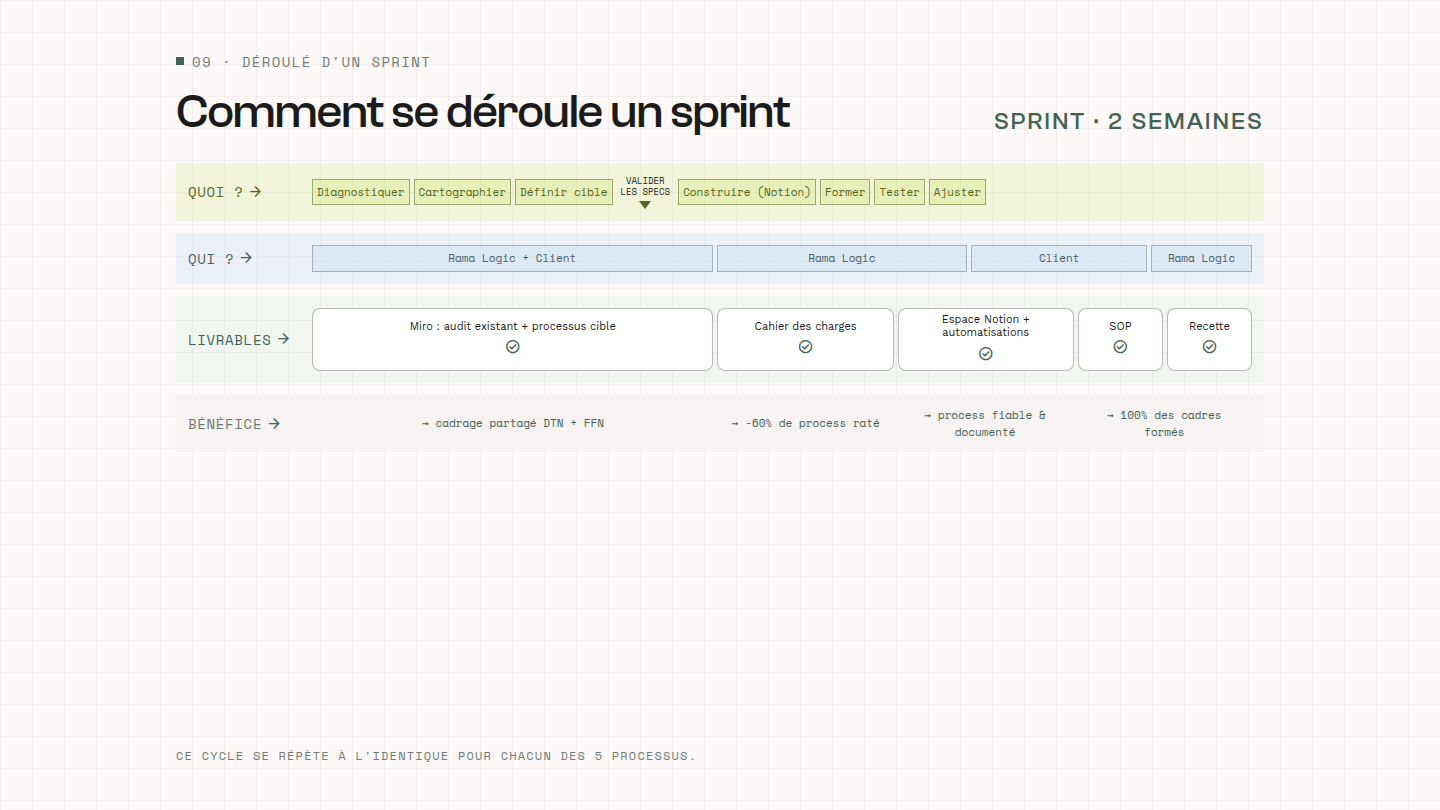
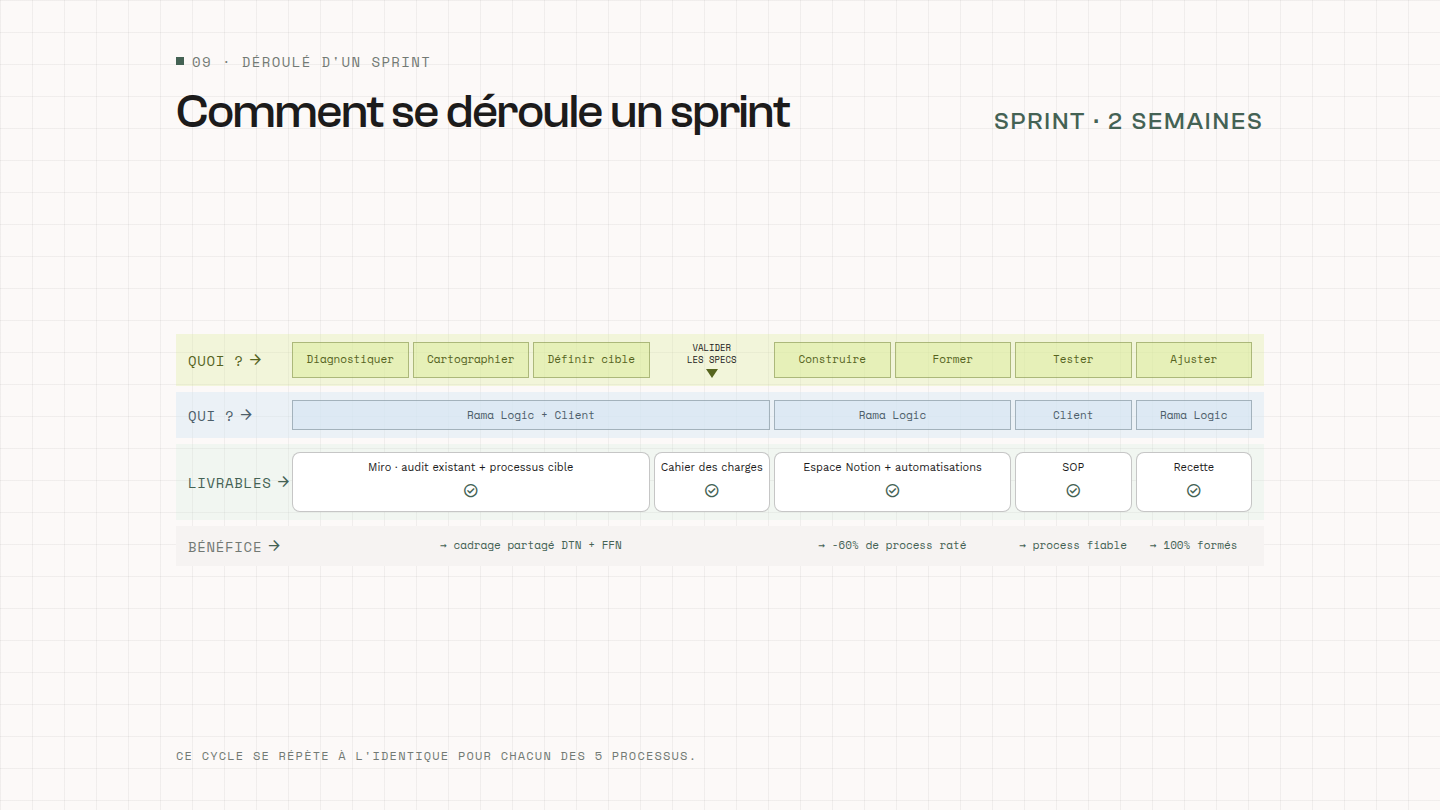
FFN deck: swimlane sprint sur grille 8 colonnes partagée (alignement Gantt façon Akira)

diff --git a/webpages/decks/2026-06-09_ffn-natation_k3p9wz/index.html b/webpages/decks/2026-06-09_ffn-natation_k3p9wz/index.html
@@ -917,53 +917,50 @@ body { font-family: 'Work Sans', system-ui, sans-serif; }
       <div class="hidden md:block font-title-sm text-title-sm text-primary font-medium uppercase tracking-widest shrink-0">Sprint · 2 semaines</div>
     </div>
 
-    <div class="flex-grow flex flex-col gap-sm overflow-x-auto">
-      <div class="min-w-[760px] flex flex-col gap-sm">
+    <div class="flex-grow flex flex-col justify-center overflow-x-auto">
+      <div class="min-w-[880px] flex flex-col gap-1.5">
+
         <!-- QUOI -->
-        <div class="relative bg-secondary-fixed/30 px-sm py-sm flex items-center gap-sm">
-          <div class="w-28 shrink-0 flex items-center gap-xs"><span class="font-code-label text-code-label text-secondary uppercase">Quoi ?</span><span class="material-symbols-outlined text-secondary text-base">arrow_forward</span></div>
-          <div class="flex-grow flex items-center gap-xs">
-            <span class="font-code-label text-[11px] text-secondary border border-secondary/50 bg-secondary-fixed/50 px-xs py-1 whitespace-nowrap">Diagnostiquer</span>
-            <span class="font-code-label text-[11px] text-secondary border border-secondary/50 bg-secondary-fixed/50 px-xs py-1 whitespace-nowrap">Cartographier</span>
-            <span class="font-code-label text-[11px] text-secondary border border-secondary/50 bg-secondary-fixed/50 px-xs py-1 whitespace-nowrap">Définir cible</span>
-            <span class="flex flex-col items-center shrink-0 px-1"><span class="font-eyebrow text-[9px] text-on-background uppercase text-center leading-tight">Valider<br/>les specs</span><span class="block w-0 h-0 border-l-[6px] border-r-[6px] border-t-[8px] border-l-transparent border-r-transparent border-t-secondary mt-1"></span></span>
-            <span class="font-code-label text-[11px] text-secondary border border-secondary/50 bg-secondary-fixed/50 px-xs py-1 whitespace-nowrap">Construire (Notion)</span>
-            <span class="font-code-label text-[11px] text-secondary border border-secondary/50 bg-secondary-fixed/50 px-xs py-1 whitespace-nowrap">Former</span>
-            <span class="font-code-label text-[11px] text-secondary border border-secondary/50 bg-secondary-fixed/50 px-xs py-1 whitespace-nowrap">Tester</span>
-            <span class="font-code-label text-[11px] text-secondary border border-secondary/50 bg-secondary-fixed/50 px-xs py-1 whitespace-nowrap">Ajuster</span>
-          </div>
+        <div class="grid grid-cols-[100px_repeat(8,minmax(0,1fr))] gap-x-1 items-stretch bg-secondary-fixed/30 px-sm py-2">
+          <div class="flex items-center gap-xs"><span class="font-code-label text-code-label text-secondary uppercase">Quoi&nbsp;?</span><span class="material-symbols-outlined text-secondary text-base">arrow_forward</span></div>
+          <div class="col-span-1 flex items-center justify-center text-center border border-secondary/40 bg-secondary-fixed/50 text-secondary font-code-label text-[11px] leading-tight px-1 py-1.5">Diagnostiquer</div>
+          <div class="col-span-1 flex items-center justify-center text-center border border-secondary/40 bg-secondary-fixed/50 text-secondary font-code-label text-[11px] leading-tight px-1 py-1.5">Cartographier</div>
+          <div class="col-span-1 flex items-center justify-center text-center border border-secondary/40 bg-secondary-fixed/50 text-secondary font-code-label text-[11px] leading-tight px-1 py-1.5">Définir cible</div>
+          <div class="col-span-1 flex flex-col items-center justify-center text-center px-0.5"><span class="font-eyebrow text-[9px] text-on-background uppercase leading-tight">Valider<br/>les specs</span><span class="block w-0 h-0 border-l-[6px] border-r-[6px] border-t-[9px] border-l-transparent border-r-transparent border-t-secondary mt-1"></span></div>
+          <div class="col-span-1 flex items-center justify-center text-center border border-secondary/40 bg-secondary-fixed/50 text-secondary font-code-label text-[11px] leading-tight px-1 py-1.5">Construire</div>
+          <div class="col-span-1 flex items-center justify-center text-center border border-secondary/40 bg-secondary-fixed/50 text-secondary font-code-label text-[11px] leading-tight px-1 py-1.5">Former</div>
+          <div class="col-span-1 flex items-center justify-center text-center border border-secondary/40 bg-secondary-fixed/50 text-secondary font-code-label text-[11px] leading-tight px-1 py-1.5">Tester</div>
+          <div class="col-span-1 flex items-center justify-center text-center border border-secondary/40 bg-secondary-fixed/50 text-secondary font-code-label text-[11px] leading-tight px-1 py-1.5">Ajuster</div>
         </div>
+
         <!-- QUI -->
-        <div class="relative bg-tertiary-fixed/40 px-sm py-sm flex items-center gap-sm">
-          <div class="w-28 shrink-0 flex items-center gap-xs"><span class="font-code-label text-code-label text-tertiary uppercase">Qui ?</span><span class="material-symbols-outlined text-tertiary text-base">arrow_forward</span></div>
-          <div class="flex-grow flex items-center gap-xs">
-            <span class="font-code-label text-[11px] text-tertiary border border-tertiary/40 bg-tertiary-fixed/60 px-sm py-1 text-center" style="flex:5">Rama Logic + Client</span>
-            <span class="font-code-label text-[11px] text-tertiary border border-tertiary/40 bg-tertiary-fixed/60 px-sm py-1 text-center" style="flex:3">Rama Logic</span>
-            <span class="font-code-label text-[11px] text-tertiary border border-tertiary/40 bg-tertiary-fixed/60 px-sm py-1 text-center" style="flex:2">Client</span>
-            <span class="font-code-label text-[11px] text-tertiary border border-tertiary/40 bg-tertiary-fixed/60 px-sm py-1 text-center" style="flex:1">Rama Logic</span>
-          </div>
+        <div class="grid grid-cols-[100px_repeat(8,minmax(0,1fr))] gap-x-1 items-stretch bg-tertiary-fixed/40 px-sm py-2">
+          <div class="flex items-center gap-xs"><span class="font-code-label text-code-label text-tertiary uppercase">Qui&nbsp;?</span><span class="material-symbols-outlined text-tertiary text-base">arrow_forward</span></div>
+          <div class="col-span-4 flex items-center justify-center text-center border border-tertiary/40 bg-tertiary-fixed/60 text-tertiary font-code-label text-[11px] px-1 py-1.5">Rama Logic + Client</div>
+          <div class="col-span-2 flex items-center justify-center text-center border border-tertiary/40 bg-tertiary-fixed/60 text-tertiary font-code-label text-[11px] px-1 py-1.5">Rama Logic</div>
+          <div class="col-span-1 flex items-center justify-center text-center border border-tertiary/40 bg-tertiary-fixed/60 text-tertiary font-code-label text-[11px] px-1 py-1.5">Client</div>
+          <div class="col-span-1 flex items-center justify-center text-center border border-tertiary/40 bg-tertiary-fixed/60 text-tertiary font-code-label text-[11px] px-1 py-1.5">Rama Logic</div>
         </div>
+
         <!-- LIVRABLES -->
-        <div class="relative bg-primary-fixed/20 px-sm py-sm flex items-center gap-sm">
-          <div class="w-28 shrink-0 flex items-center gap-xs"><span class="font-code-label text-code-label text-primary uppercase">Livrables</span><span class="material-symbols-outlined text-primary text-base">arrow_forward</span></div>
-          <div class="flex-grow flex items-stretch gap-xs">
-            <div class="relative border border-on-background/30 bg-surface-container-lowest rounded-lg px-sm py-1 flex flex-col items-center justify-center text-center" style="flex:5"><span class="font-body-reg text-[11px] text-on-background leading-tight">Miro : audit existant + processus cible</span><span class="material-symbols-outlined text-primary text-base mt-0.5">check_circle</span></div>
-            <div class="relative border border-on-background/30 bg-surface-container-lowest rounded-lg px-sm py-1 flex flex-col items-center justify-center text-center" style="flex:2"><span class="font-body-reg text-[11px] text-on-background leading-tight">Cahier des charges</span><span class="material-symbols-outlined text-primary text-base mt-0.5">check_circle</span></div>
-            <div class="relative border border-on-background/30 bg-surface-container-lowest rounded-lg px-sm py-1 flex flex-col items-center justify-center text-center" style="flex:2"><span class="font-body-reg text-[11px] text-on-background leading-tight">Espace Notion + automatisations</span><span class="material-symbols-outlined text-primary text-base mt-0.5">check_circle</span></div>
-            <div class="relative border border-on-background/30 bg-surface-container-lowest rounded-lg px-1 py-1 flex flex-col items-center justify-center text-center" style="flex:1"><span class="font-body-reg text-[11px] text-on-background leading-tight">SOP</span><span class="material-symbols-outlined text-primary text-base mt-0.5">check_circle</span></div>
-            <div class="relative border border-on-background/30 bg-surface-container-lowest rounded-lg px-1 py-1 flex flex-col items-center justify-center text-center" style="flex:1"><span class="font-body-reg text-[11px] text-on-background leading-tight">Recette</span><span class="material-symbols-outlined text-primary text-base mt-0.5">check_circle</span></div>
-          </div>
+        <div class="grid grid-cols-[100px_repeat(8,minmax(0,1fr))] gap-x-1 items-stretch bg-primary-fixed/20 px-sm py-2">
+          <div class="flex items-center gap-xs"><span class="font-code-label text-code-label text-primary uppercase">Livrables</span><span class="material-symbols-outlined text-primary text-base">arrow_forward</span></div>
+          <div class="col-span-3 flex flex-col items-center justify-center text-center gap-1 border border-on-background/25 bg-surface-container-lowest rounded-lg px-sm py-2"><span class="font-body-reg text-[11px] text-on-background leading-tight">Miro · audit existant + processus cible</span><span class="material-symbols-outlined text-primary text-base">check_circle</span></div>
+          <div class="col-span-1 flex flex-col items-center justify-center text-center gap-1 border border-on-background/25 bg-surface-container-lowest rounded-lg px-1 py-2"><span class="font-body-reg text-[11px] text-on-background leading-tight">Cahier des charges</span><span class="material-symbols-outlined text-primary text-base">check_circle</span></div>
+          <div class="col-span-2 flex flex-col items-center justify-center text-center gap-1 border border-on-background/25 bg-surface-container-lowest rounded-lg px-sm py-2"><span class="font-body-reg text-[11px] text-on-background leading-tight">Espace Notion + automatisations</span><span class="material-symbols-outlined text-primary text-base">check_circle</span></div>
+          <div class="col-span-1 flex flex-col items-center justify-center text-center gap-1 border border-on-background/25 bg-surface-container-lowest rounded-lg px-1 py-2"><span class="font-body-reg text-[11px] text-on-background leading-tight">SOP</span><span class="material-symbols-outlined text-primary text-base">check_circle</span></div>
+          <div class="col-span-1 flex flex-col items-center justify-center text-center gap-1 border border-on-background/25 bg-surface-container-lowest rounded-lg px-1 py-2"><span class="font-body-reg text-[11px] text-on-background leading-tight">Recette</span><span class="material-symbols-outlined text-primary text-base">check_circle</span></div>
         </div>
+
         <!-- BÉNÉFICE -->
-        <div class="relative bg-surface-container-low px-sm py-sm flex items-center gap-sm">
-          <div class="w-28 shrink-0 flex items-center gap-xs"><span class="font-code-label text-code-label text-outline uppercase">Bénéfice</span><span class="material-symbols-outlined text-primary text-base">arrow_forward</span></div>
-          <div class="flex-grow flex items-center gap-xs">
-            <span class="font-code-label text-[11px] text-primary font-medium px-sm text-center" style="flex:5">→ cadrage partagé DTN + FFN</span>
-            <span class="font-code-label text-[11px] text-primary font-medium px-sm text-center" style="flex:2">→ -60% de process raté</span>
-            <span class="font-code-label text-[11px] text-primary font-medium px-sm text-center" style="flex:2">→ process fiable &amp; documenté</span>
-            <span class="font-code-label text-[11px] text-primary font-medium px-sm text-center" style="flex:2">→ 100% des cadres formés</span>
-          </div>
+        <div class="grid grid-cols-[100px_repeat(8,minmax(0,1fr))] gap-x-1 items-stretch bg-surface-container-low px-sm py-2">
+          <div class="flex items-center gap-xs"><span class="font-code-label text-code-label text-outline uppercase">Bénéfice</span><span class="material-symbols-outlined text-primary text-base">arrow_forward</span></div>
+          <div class="col-span-4 flex items-center justify-center text-center font-code-label text-[11px] text-primary font-medium px-sm leading-tight">→ cadrage partagé DTN + FFN</div>
+          <div class="col-span-2 flex items-center justify-center text-center font-code-label text-[11px] text-primary font-medium px-1 leading-tight">→ -60% de process raté</div>
+          <div class="col-span-1 flex items-center justify-center text-center font-code-label text-[11px] text-primary font-medium px-1 leading-tight">→ process fiable</div>
+          <div class="col-span-1 flex items-center justify-center text-center font-code-label text-[11px] text-primary font-medium px-1 leading-tight">→ 100% formés</div>
         </div>
+
       </div>
     </div>
     <p class="font-eyebrow text-eyebrow text-outline uppercase tracking-widest mt-sm">Ce cycle se répète à l'identique pour chacun des 5 processus.</p>
